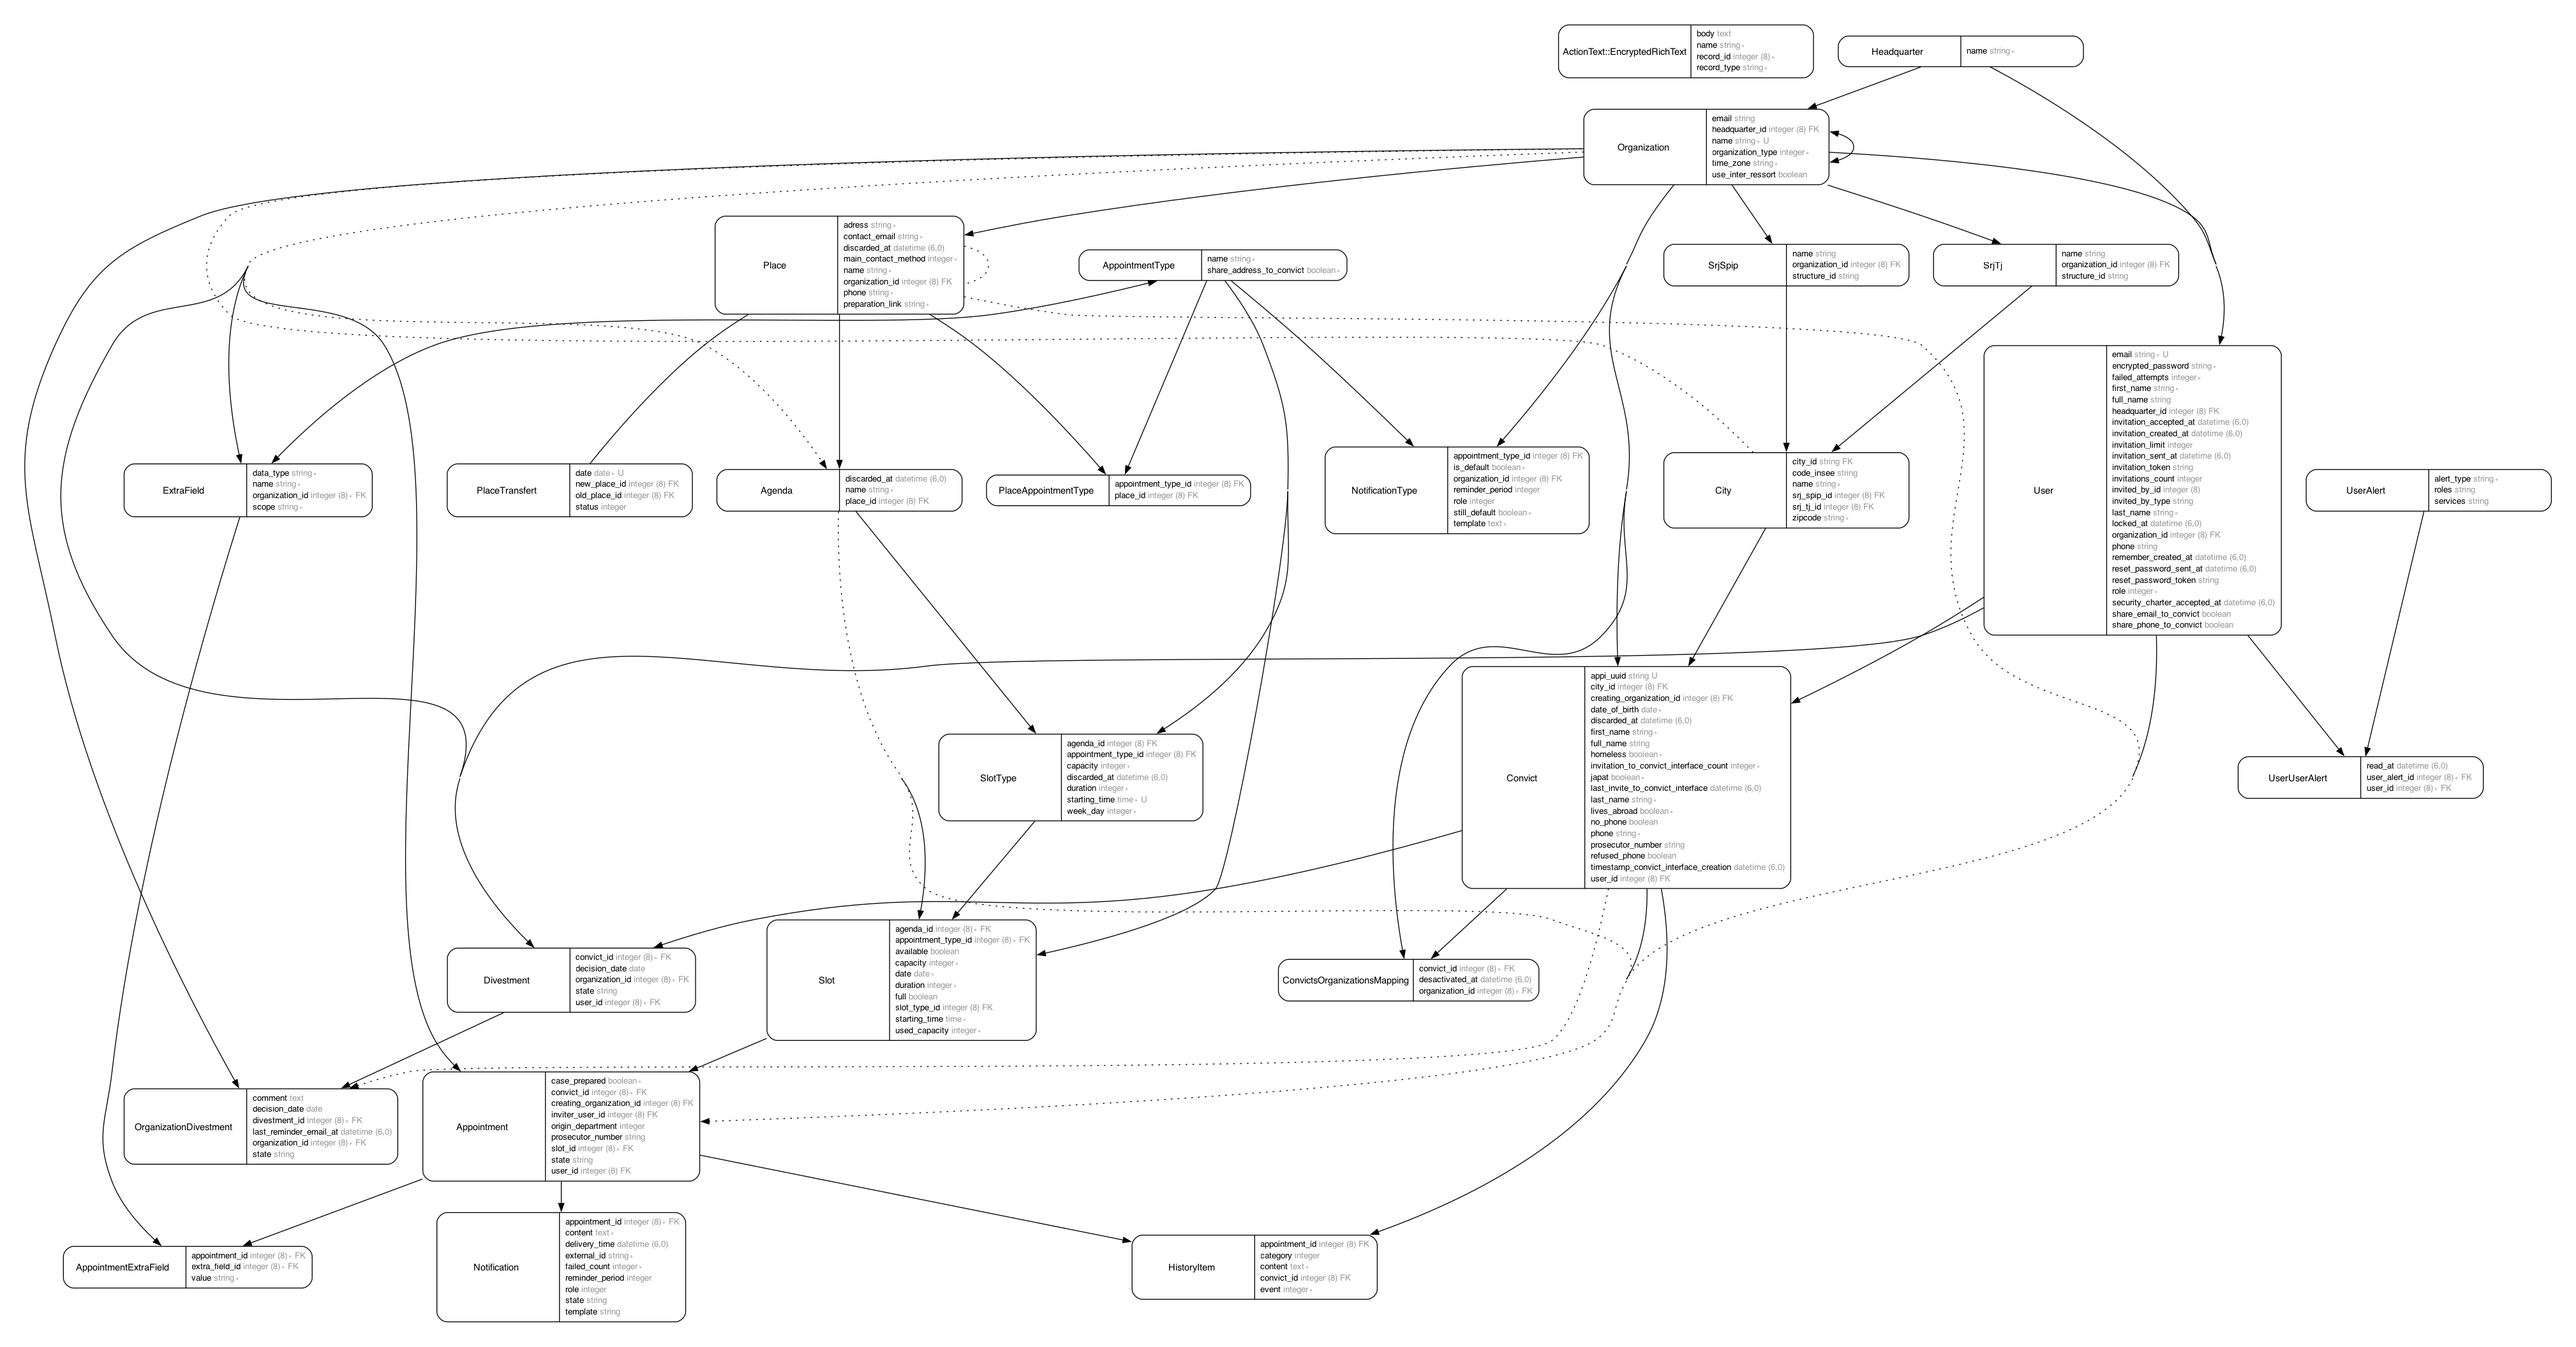
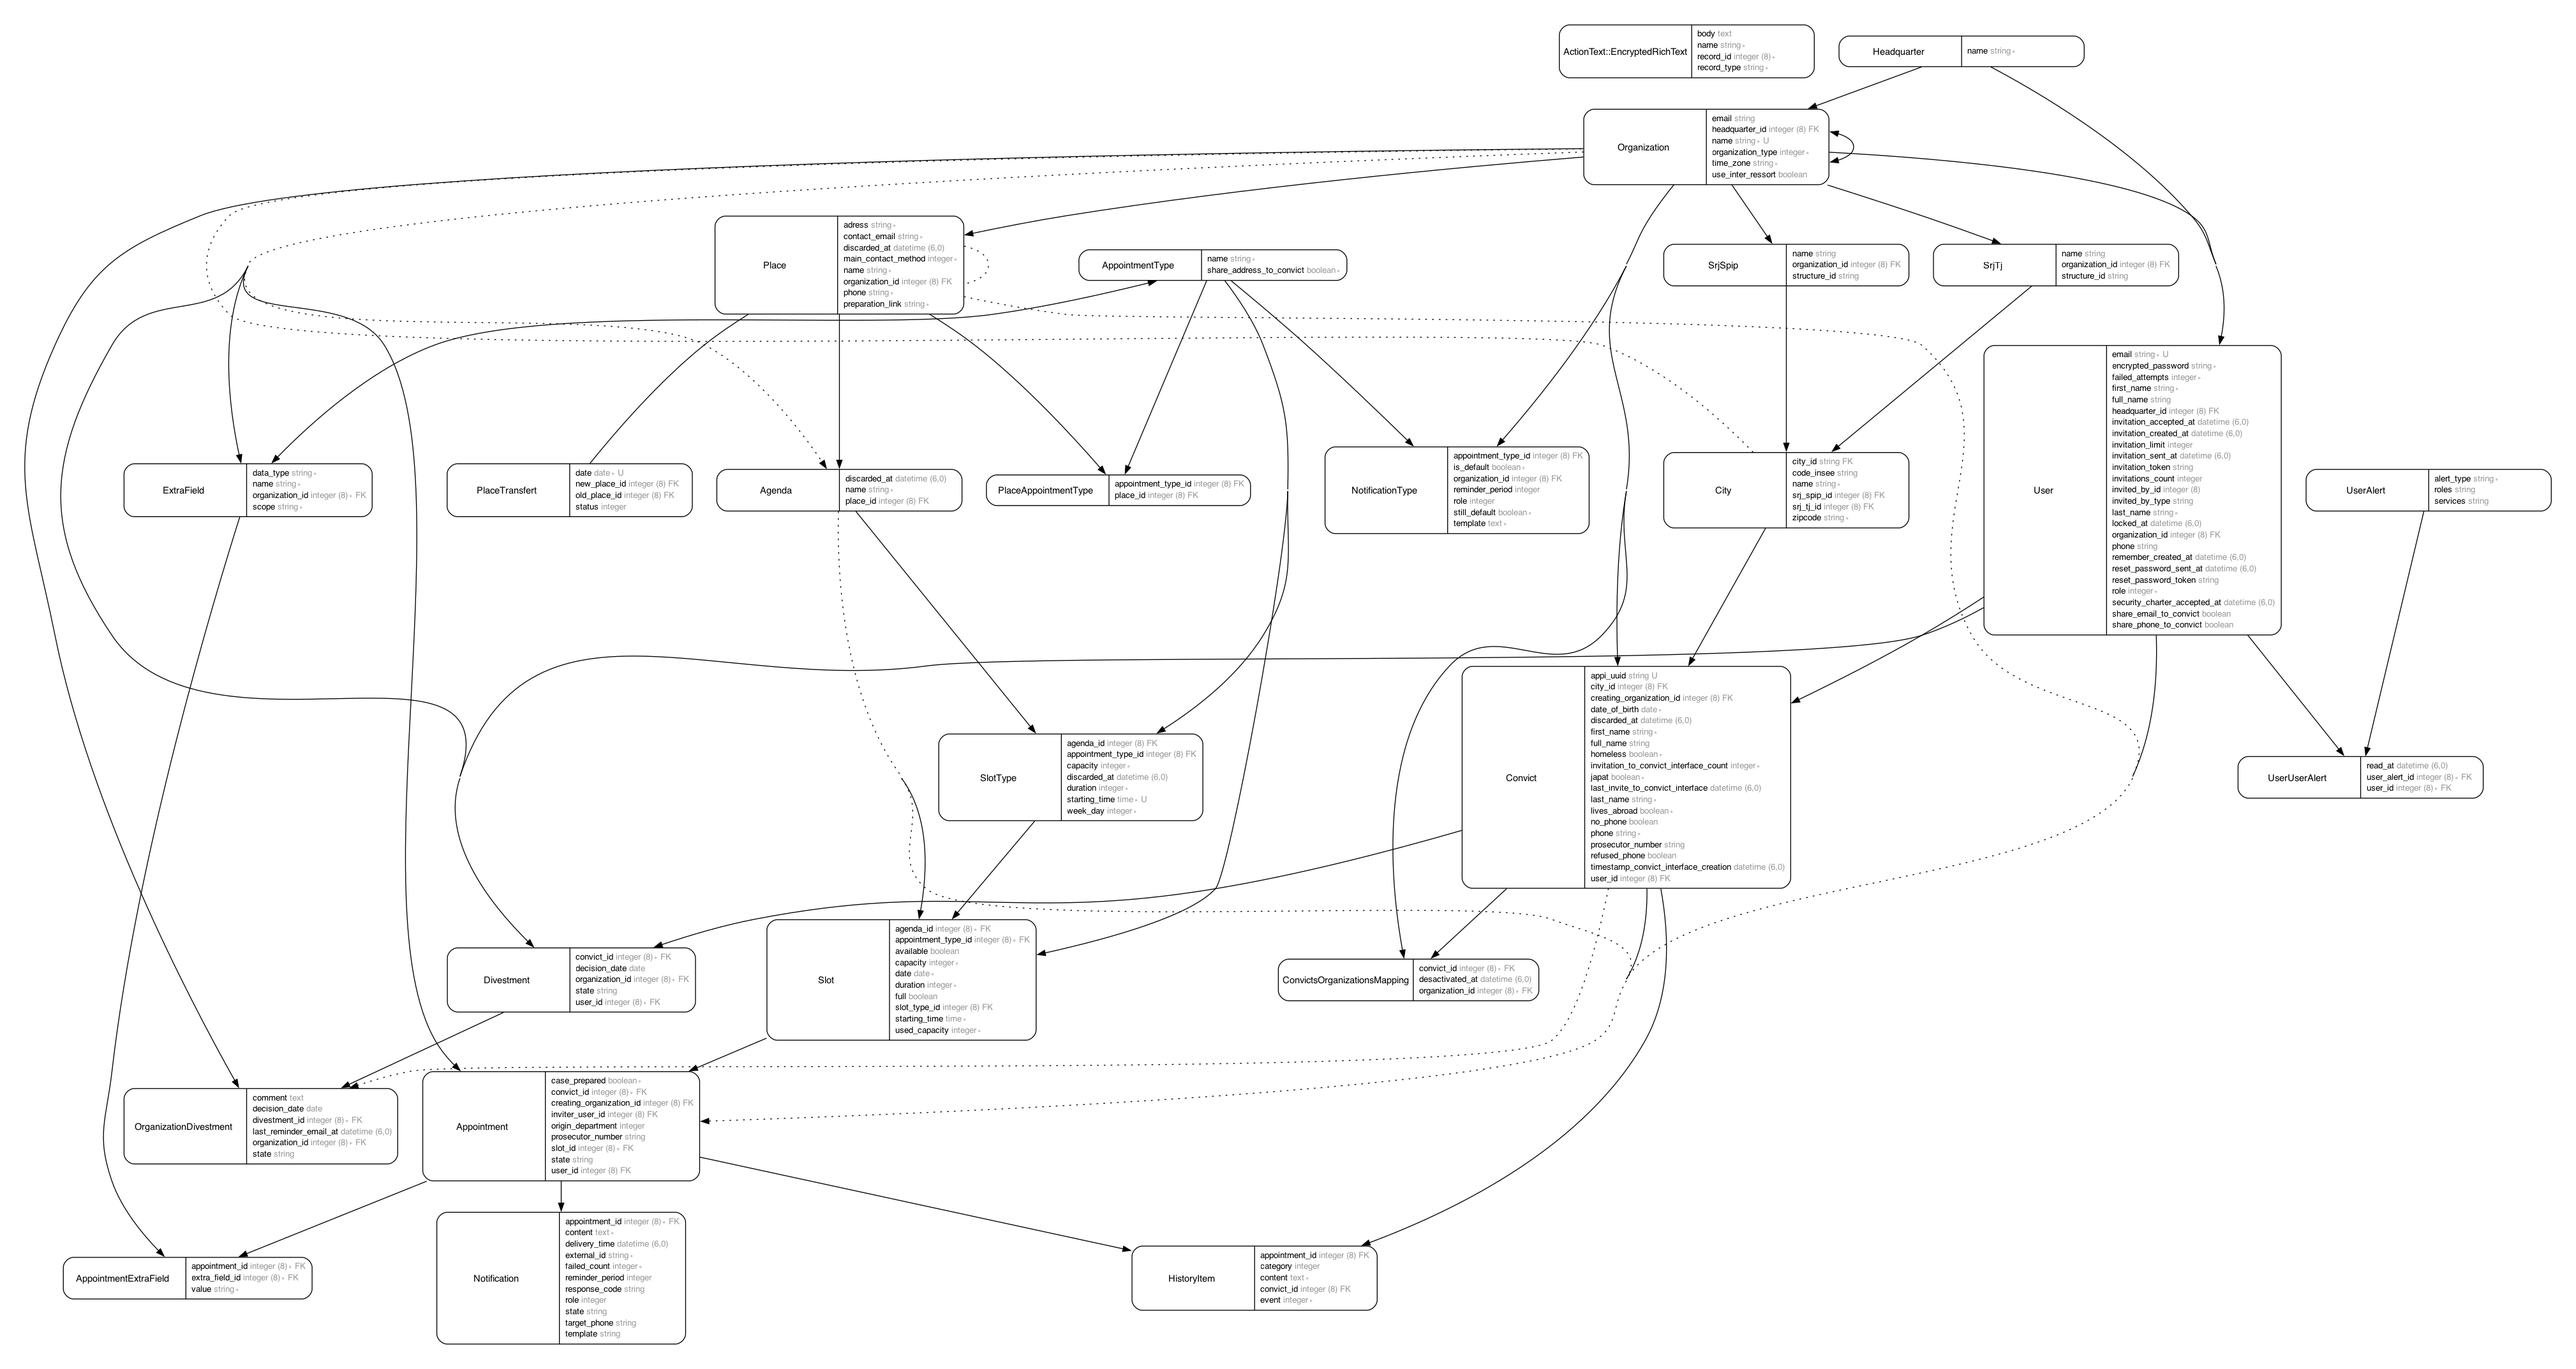
Send emails to LinkMobility about misrouted emails

diff --git a/spec/jobs/handle_misrouted_notifications_job_spec.rb b/spec/jobs/handle_misrouted_notifications_job_spec.rb
@@ -1,0 +1,33 @@
+require 'rails_helper'
+
+RSpec.describe HandleMisroutedNotificationsJob, type: :job do
+  describe '#perform' do
+    let!(:notification1) do
+      create(:notification, target_phone: '+33611111111', response_code: '16', state: 'failed',
+                            delivery_time: 1.day.ago)
+    end
+    let!(:notification2) do
+      create(:notification, target_phone: '+33622222222', response_code: '16', state: 'failed',
+                            delivery_time: 1.day.ago)
+    end
+    let!(:notification3) do
+      create(:notification, target_phone: '+33611111111', response_code: '16', state: 'failed',
+                            delivery_time: 1.day.ago)
+    end
+    let!(:notification4) do
+      create(:notification, target_phone: '+33633333333', response_code: '16', state: 'failed',
+                            delivery_time: 3.days.ago)
+    end
+    let!(:notification5) do
+      create(:notification, target_phone: '+33633333333', response_code: '0', state: 'sent', delivery_time: 1.day.ago,
+                            external_id: '1234567890')
+    end
+
+    it 'envoie un email avec les numéros de téléphone uniques à rerouter' do
+      expect do
+        described_class.perform_now
+      end.to have_enqueued_mail(AdminMailer, :warn_link_mobility_for_misrouted_notifications)
+        .with(params: { phones: ['+33611111111', '+33622222222'] }, args: [])
+    end
+  end
+end

diff --git a/spec/mailers/admin_mailer_spec.rb b/spec/mailers/admin_mailer_spec.rb
@@ -1,0 +1,22 @@
+require 'rails_helper'
+
+RSpec.describe AdminMailer, type: :mailer do
+  describe '#warn_link_mobility_for_misrouted_notifications' do
+    let(:phones) { ['+33611111111', '+33622222222'] }
+    let(:mail) { described_class.with(phones: phones).warn_link_mobility_for_misrouted_notifications }
+
+    it 'rend les bons destinataires' do
+      expect(mail.to).to eq(['support.fr@linkmobility.com'])
+      expect(mail.cc).to eq(['matthieu.faugere@beta.gouv.fr', 'damien.le-thiec@beta.gouv.fr'])
+    end
+
+    it 'a le bon sujet' do
+      expect(mail.subject).to eq('Mon Suivi Justice - Liste des numéros non routés')
+    end
+
+    it 'inclut les numéros de téléphone dans le corps du mail' do
+      expect(mail.body.encoded).to include('+33611111111')
+      expect(mail.body.encoded).to include('+33622222222')
+    end
+  end
+end

diff --git a/db/schema.rb b/db/schema.rb
@@ -10,7 +10,7 @@
 #
 # It's strongly recommended that you check this file into your version control system.
 
-ActiveRecord::Schema[7.1].define(version: 2024_10_08_123812) do
+ActiveRecord::Schema[7.1].define(version: 2024_11_10_110621) do
   # These are extensions that must be enabled in order to support this database
   enable_extension "plpgsql"
   enable_extension "unaccent"
@@ -293,6 +293,8 @@ ActiveRecord::Schema[7.1].define(version: 2024_10_08_123812) do
     t.string "external_id"
     t.integer "failed_count", default: 0, null: false
     t.datetime "delivery_time"
+    t.string "response_code"
+    t.string "target_phone"
     t.index ["appointment_id"], name: "index_notifications_on_appointment_id"
     t.index ["delivery_time", "state"], name: "index_notifications_on_delivery_time_and_state"
   end

diff --git a/spec/services/sms_delivery_service_spec.rb b/spec/services/sms_delivery_service_spec.rb
@@ -61,6 +61,7 @@ RSpec.describe SmsDeliveryService do
         before do
           allow(response).to receive(:success).and_return(false)
           allow(response).to receive(:retry_if_failed).and_return(false)
+          allow(response).to receive(:code).and_return('16')
         end
 
         it 'increments failed_count' do
@@ -70,6 +71,12 @@ RSpec.describe SmsDeliveryService do
         it 'marks notification as failed' do
           service.send_sms
           expect(notification.reload.state).to eq('failed')
+        end
+
+        it 'updates response_code' do
+          service.send_sms
+          expect(notification.reload.response_code).to eq('16')
+          expect(notification.reload.target_phone).to eq(notification.convict_phone)
         end
 
         context 'when retry is possible' do

diff --git a/app/mailers/admin_mailer.rb b/app/mailers/admin_mailer.rb
@@ -66,4 +66,11 @@ class AdminMailer < ApplicationMailer
     mail(to: ['matthieu.faugere@beta.gouv.fr', 'damien.le-thiec@beta.gouv.fr'],
          subject: 'Notifications remises dans la queue')
   end
+
+  def warn_link_mobility_for_misrouted_notifications
+    @phones = params[:phones]
+    mail(to: 'support.fr@linkmobility.com',
+         cc: ['matthieu.faugere@beta.gouv.fr', 'damien.le-thiec@beta.gouv.fr'],
+         subject: 'Mon Suivi Justice - Liste des numéros non routés')
+  end
 end

diff --git a/app/models/notification.rb b/app/models/notification.rb
@@ -17,6 +17,10 @@ class Notification < ApplicationRecord
       .where(appointment: { slots: { agendas: { places: { organization: } } } })
   }
 
+  scope :misrouted, -> { where(response_code: '16') }
+
+  scope :to_reroute_link_mobility, -> { misrouted.with_state(:failed).where(delivery_time: 2.days.ago..Time.zone.now) }
+
   scope :all_sent, -> { where(state: %w[sent received failed]) }
 
   scope :appointment_after_today, lambda {

diff --git a/config/clock.rb b/config/clock.rb
@@ -22,5 +22,6 @@ module Clockwork
 
   every(1.day, 'delete_place_transfert', at: '05:00') { DeletePlaceTransfertJob.perform_later }
   every(1.day, 'handle_stalled_divestments', at: '06:00') { HandleStalledDivestmentsJob.perform_later }
+  every(2.days, 'handle_misrouted_notifications', at: '06:00') { HandleMisroutedNotificationsJob.perform_later }
   every(1.hour, 'sms_schedule.job') { SmsScheduleJob.perform_later }
 end

diff --git a/spec/mailers/previews/admin_mailer_preview.rb b/spec/mailers/previews/admin_mailer_preview.rb
@@ -1,0 +1,14 @@
+# Preview all emails at http://localhost:3001/rails/mailers/admin_mailer
+class AdminMailerPreview < ActionMailer::Preview
+  def warn_link_mobility_for_misrouted_notifications
+    phones = [
+      '+33612345678',
+      '+33687654321',
+      '+33699999999'
+    ]
+
+    AdminMailer.with(
+      phones: phones
+    ).warn_link_mobility_for_misrouted_notifications
+  end
+end

diff --git a/app/jobs/handle_misrouted_notifications_job.rb b/app/jobs/handle_misrouted_notifications_job.rb
@@ -1,0 +1,13 @@
+class HandleMisroutedNotificationsJob < ApplicationJob
+  queue_as :default
+
+  def perform
+    AdminMailer.with(phones: phones_to_reroute).warn_link_mobility_for_misrouted_notifications.deliver_later
+  end
+
+  private
+
+  def phones_to_reroute
+    Notification.to_reroute_link_mobility.pluck(:target_phone).uniq
+  end
+end

diff --git a/app/services/sms_delivery_service.rb b/app/services/sms_delivery_service.rb
@@ -39,6 +39,7 @@ class SmsDeliveryService
 
   def manage_failure(response)
     notification.increment!(:failed_count)
+    notification.update!(response_code: response.code, target_phone: notification.convict_phone)
 
     raise SmsDeliveryError.new(response.code, response.message) if response.retry_if_failed
 

diff --git a/db/migrate/20241110110621_add_response_code_to_notifications.rb b/db/migrate/20241110110621_add_response_code_to_notifications.rb
@@ -1,0 +1,6 @@
+class AddResponseCodeToNotifications < ActiveRecord::Migration[7.1]
+  def change
+    add_column :notifications, :response_code, :string
+    add_column :notifications, :target_phone, :string
+  end
+end

diff --git a/spec/factories/notifications.rb b/spec/factories/notifications.rb
@@ -6,5 +6,7 @@ FactoryBot.define do
     state { 'created' }
     role { 'summon' }
     failed_count { 0 }
+    target_phone { '+33611111111' }
+    response_code { '0' }
   end
 end
